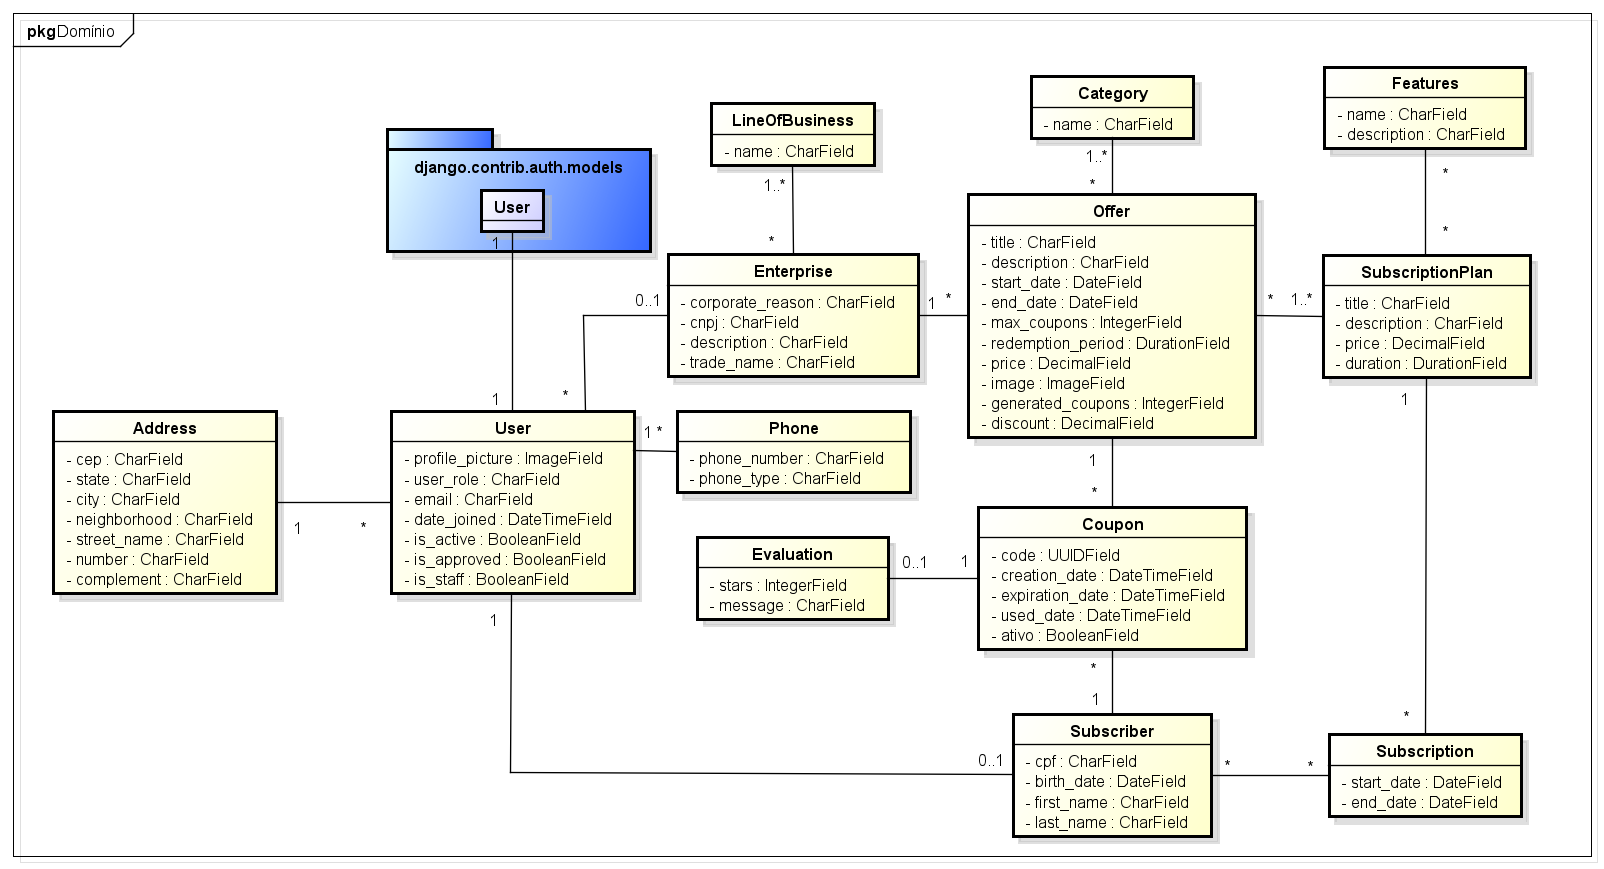
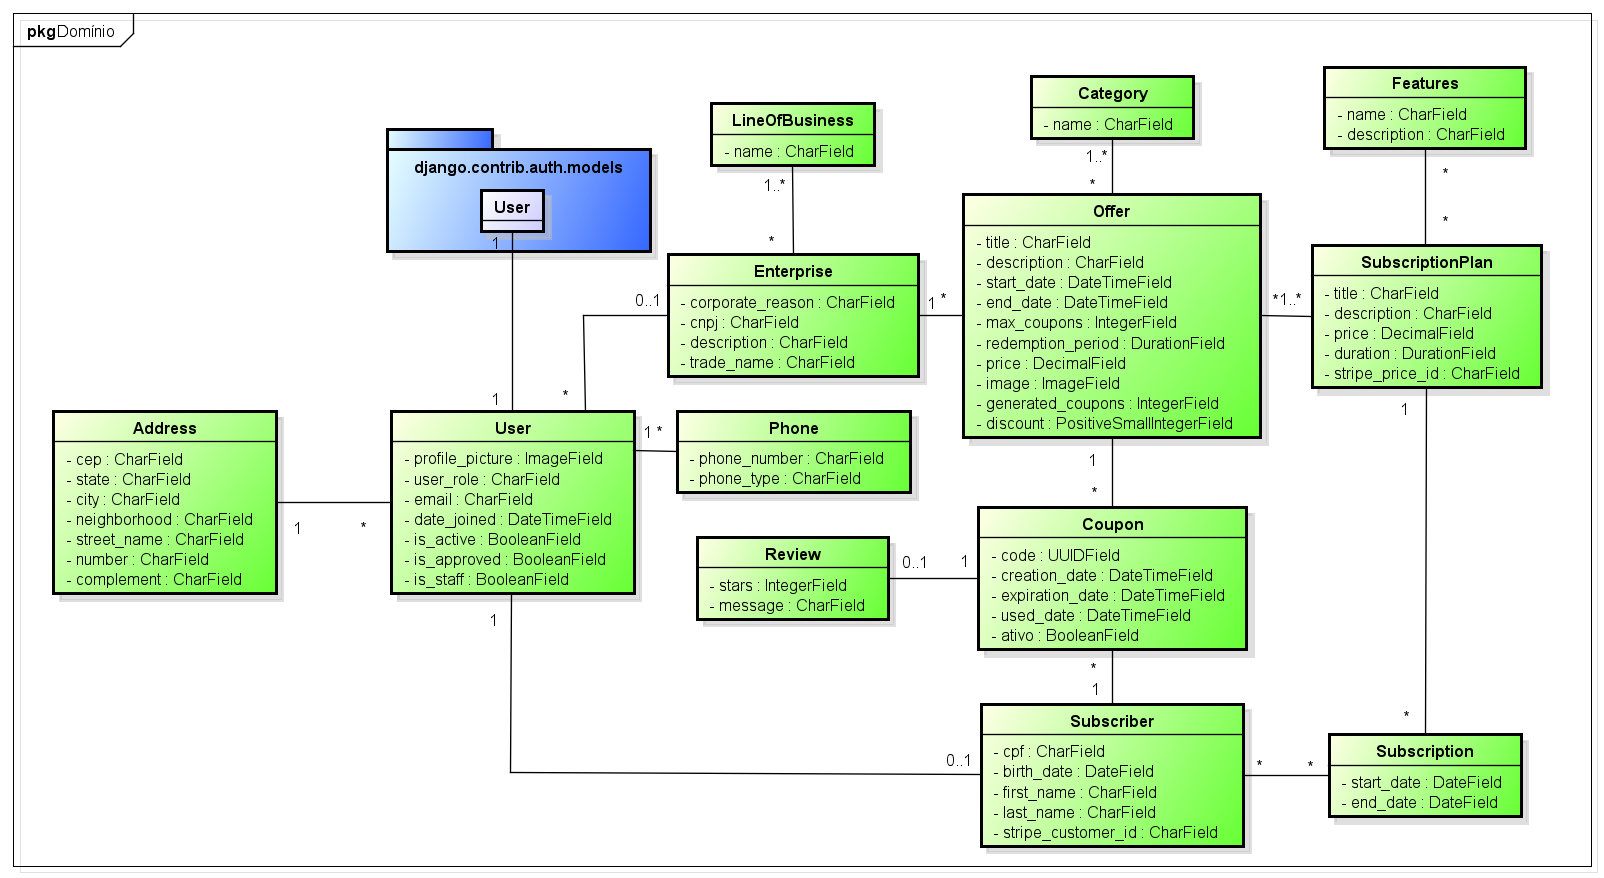
Atualização de documentação: README e modelo de domínio.

diff --git a/README.md b/README.md
@@ -1,9 +1,8 @@
-# Projeto Integrador InfoWeb - IFRN
-# Projeto OffClub
+# OffClub - Projeto Integrador InfoWeb - IFRN
 
-Este projeto tem como objetivo ser uma aplicação  modelo (_blueprint_) para a disicplina de Análise e Projeto Orientado a Objeto.
+Projeto elaborado e implementado por alunos do terceiro ano do Curso Técnico de Nível Médio Integrado em Informática para Internet do Instituto Federal de Educação, Ciência e Tecnologia do Rio Grande do Norte Campus Natal-Central para a disciplina de "Desenvolvimento de Projeto Integrador" no período letivo referente ao ano de 2025.
 
-Atualmente o projeto não possui uma implementação como modelo de projeto do Microsoft Visual Studio que está aberto a receber contribuições de código que representem as especificação aqui presente.
+O projeto visa desenvolver uma plataforma de um clube de descontos, buscando benefício mútuo aos clientes assinantes e às empresas parceiras, favorecendo o comércio local.
 
 Todo material está publicado sob licença [GPL-3.0](https://www.gnu.org/licenses/quick-guide-gplv3.pt-br.html).
 
@@ -24,23 +23,8 @@ Para o desenvolvimento do projeto a equipe se comunicará através do **Discord*
 - LINK de acesso direto: https://discord.gg/929jPg67vD
 - Código: 929jPg67vD
 
-## Dias e Horários da Reuniões da Equipe
-
-### Reunião Presencial
-
-| DIA | HORÁRIO |
-| --- | ------- |
-| ??? | ??? |
-
-### Reuniões Online
-
-| DIA | HORÁRIO |
-| --- | ------- |
-| ??? | ??? |
-
 
 ### Artefatos do Projeto
-* [Reuniões da equipe](./reunioes/Reunioes.md)
 * [Documento de visão](./docs/Visao_OffClub.md)
 * [Modelo de Casos de Uso](./docs/casos_de_uso/modelo_de_cdu.md)
 * [Modelo de Entidades e Relacionamento](./docs/er/modelo_er.md)

diff --git a/docs/modelos_de_dominio/modelo_dominio.md b/docs/modelos_de_dominio/modelo_dominio.md
@@ -6,6 +6,7 @@
 |:-------|:-------|:----------|:------|
 | 30/06/2025 | 1.00 | Versão Inicial  | Fellipe Aleixo e Heitor Barboza |
 | 02/11/2025 | 2.00 | Revisão dos atributos e tradução para a língua inglesa  | Heitor Barboza |
+| 28/12/2025 | 3.00 |Ajustes finais na documentação do projeto  | Heitor Barboza |
 | - | - | - | - |
 
 ## Diagrama de Modelos de Domínio
